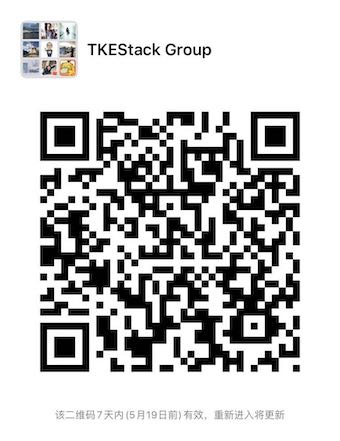
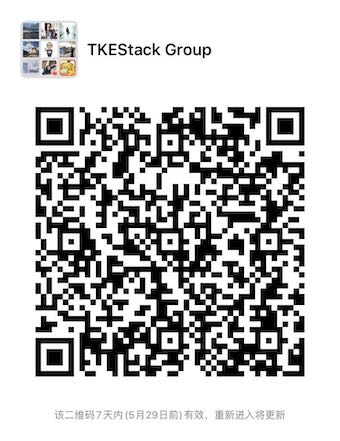
docs: update QRcode && Installation requirement && FAQ (#389)
* docs: update

* docs: update format and content and unified image size

* docs: update wechat QR code

* docs: update quickstart

* docs: update QR code && Installation requirement

* docs: update QRcode

* docs: resize QRcode

* docs: resize QRcode

* docs: update QRcode

* docs: resize QRcode

diff --git a/docs/guide/zh-CN/FAQ/events.md b/docs/guide/zh-CN/FAQ/events.md
@@ -27,9 +27,7 @@
 
 Error syncing pod, skipping failed to "StartContainer" for with CrashLoopBackOff: "Back-off 5m0s restarting failed container
 说明：容器进程崩溃或退出。
-解决方法：检查容器内是否有持续运行的前台进程，若有检查其是否有异常行为。详情请参考 [如何构建Docker 镜像](https://github.com/tkestack/docs/blob/master/QuickStart/%E5%85%A5%E9%97%A8%E7%A4%BA%E4%BE%8B/%E5%A6%82%E4%BD%95%E6%9E%84%E5%BB%BAdocker%E9%95%9C%E5%83%8F.md)。
-
-如果以上解决方法未能解决您的问题，请联系客服。
+解决方法：检查容器内是否有持续运行的前台进程，若有检查其是否有异常行为。详情请参考 [如何构建Docker 镜像](../QuickStart/examples/如何构建Docker镜像.md)。
 
 
 

diff --git a/docs/guide/zh-CN/installation/installation-requirement.md b/docs/guide/zh-CN/installation/installation-requirement.md
@@ -6,7 +6,10 @@
 
 
 
-> 注意：Global集群至少需要一台**8核16G内存，50G系统盘**的机器。
+> 特别注意：
+>
+> 1. Global集群：至少需要一台**8核16G内存，50G系统盘**的机器
+> 2. Installer节点：是单独的用作安装的节点，不能作为集群的Global节点使用。因为在安装Global集群时，需要多次重启docker，此时如果Global集群里面有Installer节点，重启docker会中断Global集群的安装。
 
 
 
